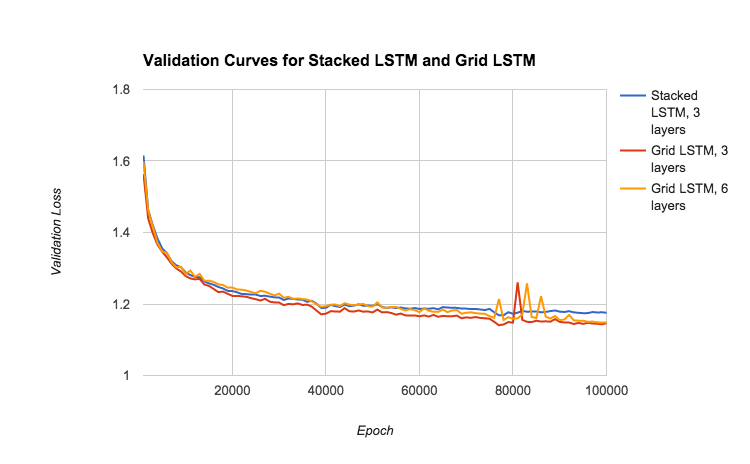
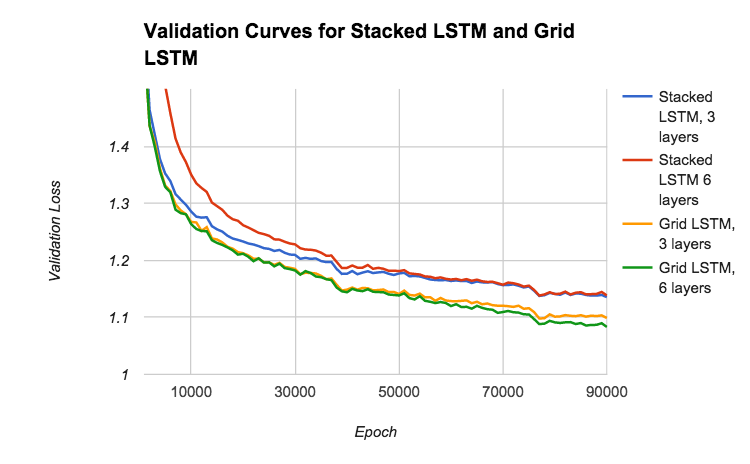
addition task setup and readme change

diff --git a/README.md b/README.md
@@ -20,21 +20,31 @@ I set up 4 models:
 * 6 layer Stacked LSTM
 * 6 layer Grid LSTM
 
-Each model has 1000 units per layer, is trained with rmsprop, has an initial learning rate of 0.001, and uses the default weight decay settings from the char-rnn repo. I train on 50 length character sequences of batch size 50.
+Each model has 1000 units per layer, is trained with rmsprop, has an initial learning rate of 0.001, and uses the default weight decay and gradient clipping settings from the char-rnn repo. I train on 50 length character sequences of batch size 50. I add 25% dropout on the non-recurrent connections to all models.
 
 Each Grid LSTM has tied weights along the depth dimension as described in section 3.5. I also 'prioritize' the depth dimension of the network (section 3.2) by computing the transformed temporal hidden state prior to handing it to the depth LSTM.
 
 I split the 100 million character dataset 95% training / 5% validation.
 
 #### Results
-Here's the model's validation curves after running over the weekend:
+Here are each models' validation curves:
 
 ![](https://github.com/coreylynch/grid-lstm/blob/master/val_curves.png)
 
-> **NOTE**  
-> Stacked LSTM w/ 6 layers flatlined w/ an average validation loss of 3.53 and is not shown.
+It's clear from the graph that grid LSTM converges to a better model than stacked LSTM on this task. The best grid LSTM network (6 layers) has a 4.61% lower validation loss than the best stacked LSTM (3 layers). This was nice confirmation that the linear LSTM gating mechanism along the depth dimension does indeed help when training deeper recurrent networks. 
 
-Interestingly, I was basically unable to get the 6 layer stacked LSTM to learn anything (the validation loss flatlined at an average of 3.53 over the training period), whereas grid LSTM easily handled 6 layers. This was nice confirmation that the gated linear transfer along the depth dimension does indeed help train significantly deeper networks. I also found it interesting that a 6 layer grid LSTM network converged to basically the same loss as a 3 layer grid LSTM network. I suspected the problem would benefit from additional depth, but I also trained without dropout so it might just need some additional regularization. I'll rerun and update.
+I was trying to reason for myself about why this kind of linear information flow along the depth of the network might be so beneficial. One story I could imagine goes like this:
+
+Say a memory cell in a lower layer in the network activates when inside a URL ([Karpathy and Johnson](http://arxiv.org/pdf/1506.02078v2.pdf) find many concrete examples of character language model LSTMs using their memory cells to remember long-range information just like this, like cells that activate inside quotes, inside comments, with increasing strength relative to line position, etc.). 
+
+Let’s also suppose that this "am I inside a URL?" memory cell's current activation value is relevant to a higher layer’s processing. 
+
+In traditional stacked LSTM, this information in the lower cell has to travel through an output gate, a tanh nonlinearity, an input gate and another tanh nonlinearity to reach the upper cell. 
+
+A grid LSTM network, on the other hand, can write the information to a lower cell, close the forget gate on it carrying it across multiple layers, then expose the information directly to some higher layer. This replaces the prior path through multiple non-linearities with a linear identity transformation, modulated by a forget gate.
+
+### Note on Dropout
+Dropout proved to be necessary in getting the best performance out of both traditional stacked LSTMs and grid LSTMs for this task. Interestingly, without dropout I was unable to train a 6 layer stacked LSTM on this dataset (the validation loss flatlined over the training period with an average loss of 3.53), whereas I was able to train a 6 layer grid LSTM easily with no dropout. For more regularizing LSTMs with dropout, see [this](http://arxiv.org/abs/1409.2329).
 
 ### Cool related papers
 There are a few contemporary architectures that provide similar gradient channeling along network depth: 
